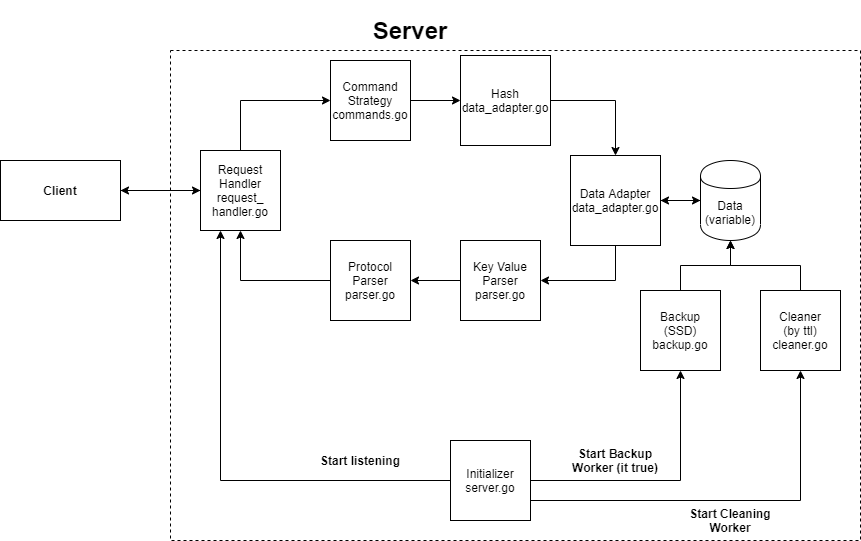
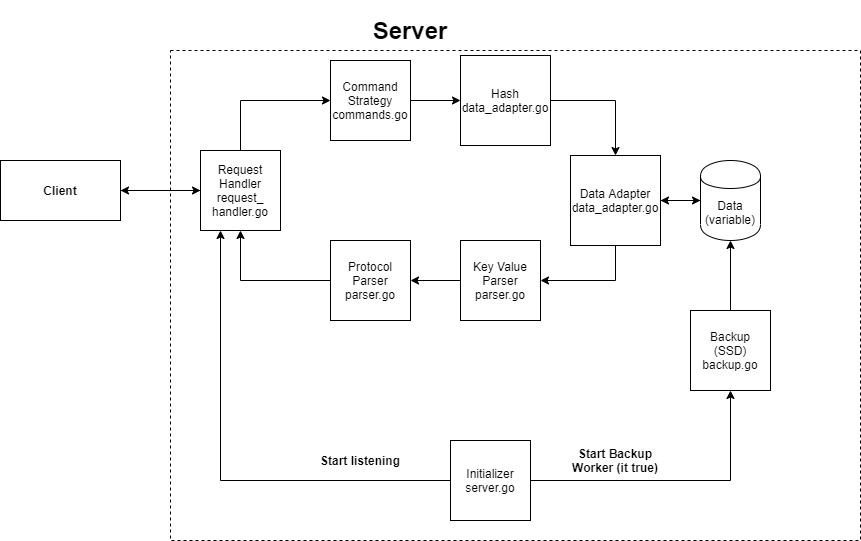
update design

diff --git a/README.md b/README.md
@@ -1,3 +1,3 @@
 # go-redis-server
 - Follow the drawio design
-- If there is time add atomic get and set
+- If there is time add atomic set
